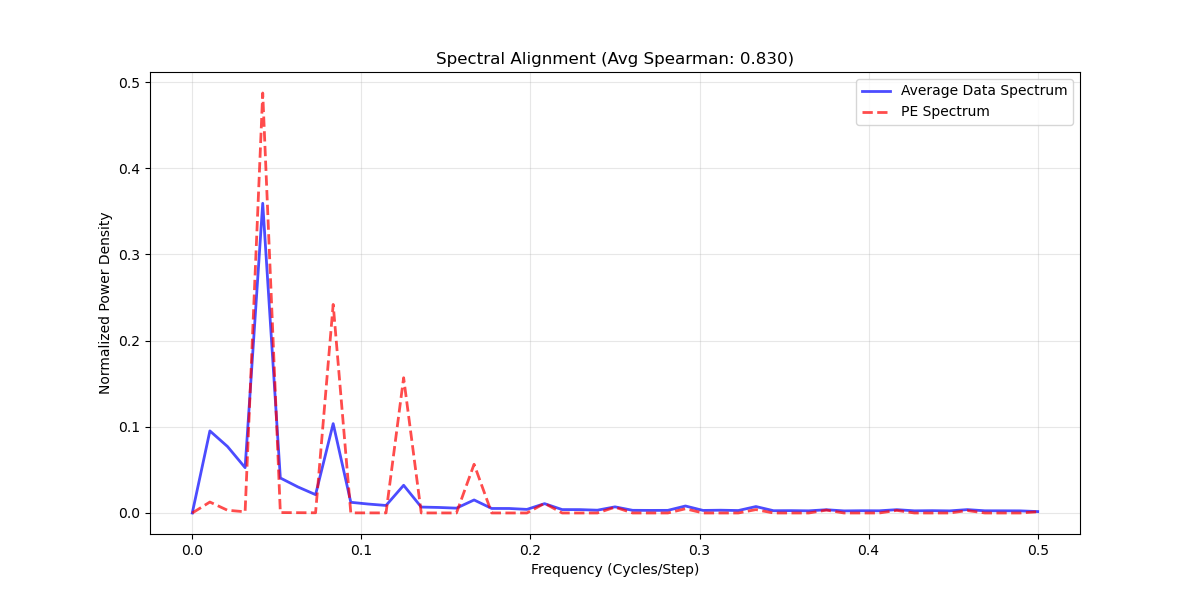
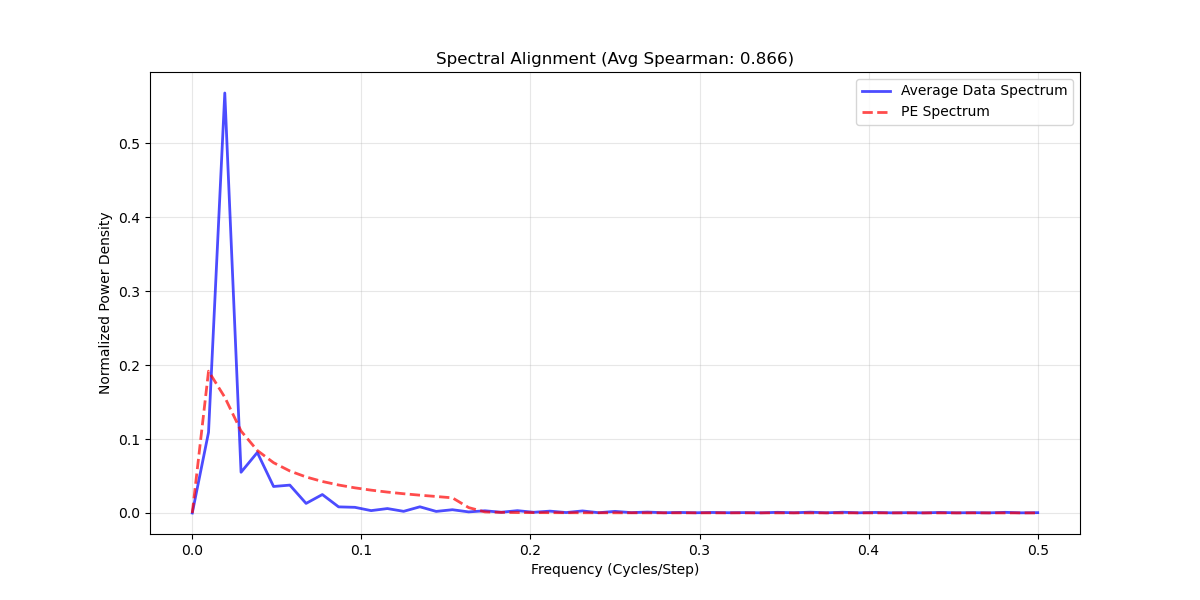
successfully ran ILI dataset

diff --git a/ft_29thdec.py b/ft_29thdec.py
@@ -103,6 +103,11 @@ def main():
     
     print(f"--- Top-3 Periodicity Analysis (Max Period: {args.max_period}d) ---")
 
+    # Auto-adjust max_period for ILI if it's still the default
+    if 'ili' in args.dataset_name.lower() and args.max_period == 30.0:
+        print("Notice: ILI dataset detected. Increasing max_period to 400 days to capture annual seasonality.")
+        args.max_period = 400.0
+
     sample_rate = get_sampling_rate(args.dataset_name)
     print(f"Detected Sampling Rate: {sample_rate} samples/day")
 
@@ -133,6 +138,10 @@ def main():
             # Find Top 3
             top_3, freqs, power = find_top_frequencies(ts, sample_rate, max_period_days=args.max_period, top_n=3)
             
+            if top_3:
+                dom_period_days = top_3[0][0]
+                print(f"   -> Dominant Period: {dom_period_days:.2f} days = {dom_period_days * sample_rate:.1f} steps")
+
             # Prepare row for table
             row = {'Channel': col}
             for i, (period, freq, pwr) in enumerate(top_3):
